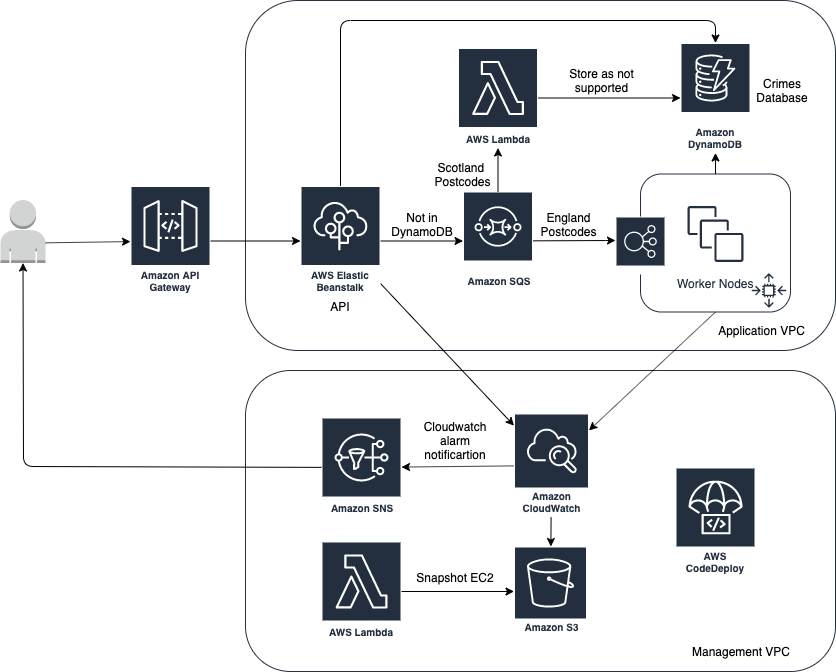
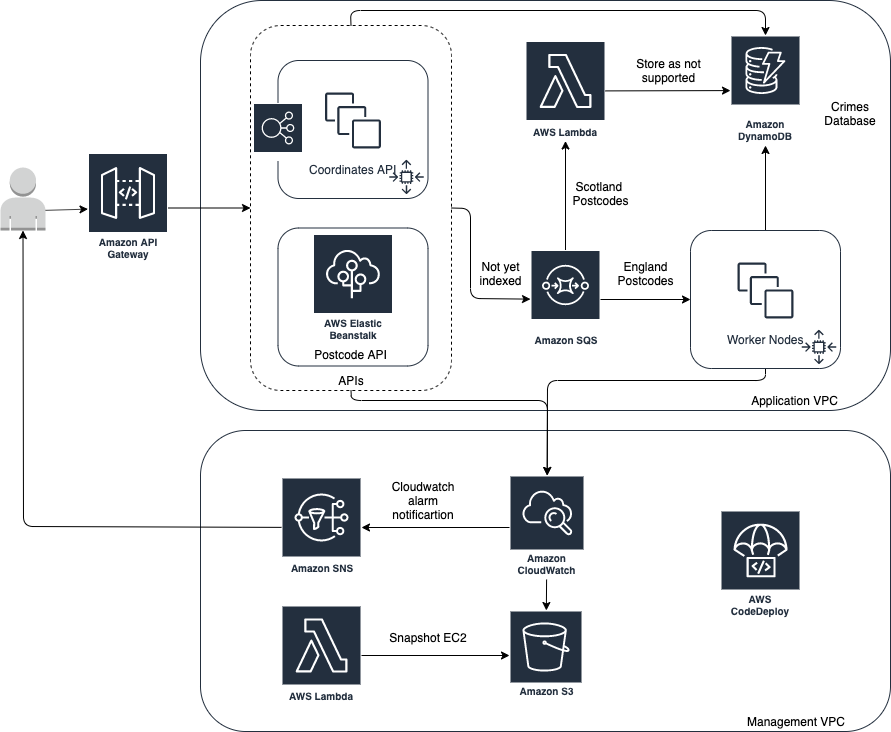
Changing solution diagram

diff --git a/README.md b/README.md
@@ -1,6 +1,7 @@
 # AWS Certified DevOps Engineer - Professional
 
 ## Practical Exercise
+Note: Both the use of infrastructure and software design here is poor, and not efficient. This project's purpose is to use all the tools and services you need to cover in the certification.
 
 ### Requirements
 To sufficiently cover the syllabus of the certification and demonstrate a practical application of
@@ -24,21 +25,29 @@ Initial solution will look something like this:
 ![topology](./docs/aws-devops-cert-topology.png)
 
 
-### Postcode API (Frontend)
-Takes a postcode, validates it, then sends it off to Amazon SQS instance. Returns 400 if postcode is invalid format.
+### Postcode API (Golang)
+Takes a postcode, validates it, checks if results exist in the database, if not then sends it off to Amazon SQS instance. Returns 400 if postcode is invalid format.
 
 Example Usage:
-```cassandraql
-curl -iva http://postcode-api-url/postcode/SE12FG
+```shell script
+curl -iva http://api-url/postcode/SW1A1AA
 ```
 
-### Crime Lookup Service (Backend)
+### Coordinates API (Rust)
+Takes a pair of coordinates, validates it, checks if results exist in the database, if not then sends it off to Amazon SQS instance. Returns 400 if postcode is invalid format.
+
+Example Usage:
+```shell script
+curl -iva http://api-url/coordinates?longitude=-0.141588&latitude=51.501009
+```
+
+### Crime Lookup Service (Golang)
 Ingests valid postcode from Amazon SQS instance, fetches longitude and latitude of postcode and returns reported crimes in the past month within a mile radius.
 
 Maybe if the police API returns 429 (exceeds 15 requests per second) we can somehow manage this or create a cloudwatch alarm?
 
-### Invalid Postcode Lambda
+### Invalid Postcode Lambda (Python)
 Stores Scottish postcodes as currently not supported.
 
-### Backup Snapshot Lambda
+### Backup Snapshot Lambda (Python)
 Creates a snapshot of an EBS volume, and deletes old ones.
